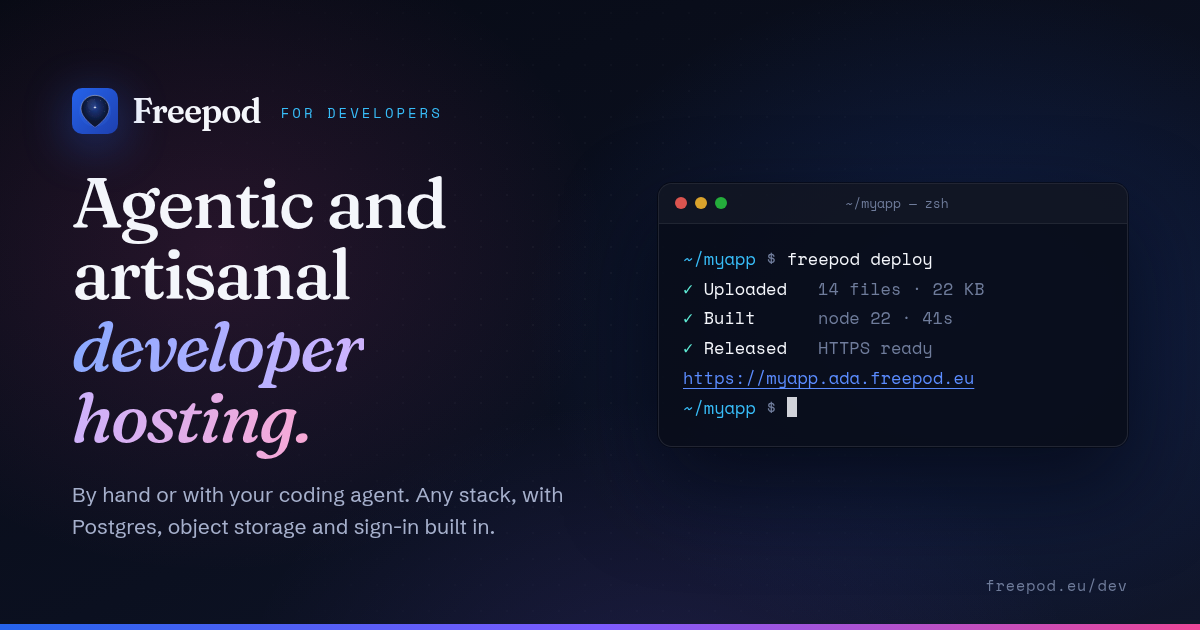
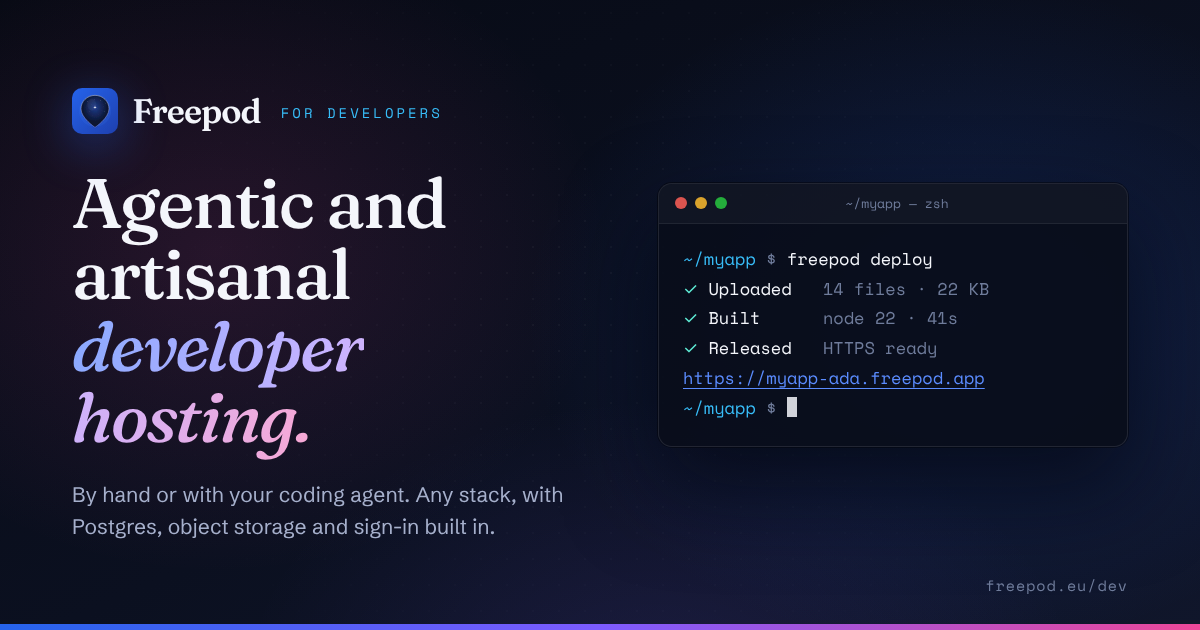
Show freepod.app addresses in the dev OG card and CLI docs
The developer social preview card and the CLI development guide still
showed app addresses under freepod.eu. Use the flat freepod.app form and
re-render the card.

diff --git a/ui/og/og-image-dev-v2.html b/ui/og/og-image-dev-v2.html
@@ -249,7 +249,7 @@
 <span class="ok">✓</span> Uploaded   <span class="dim">14 files · 22 KB</span>
 <span class="ok">✓</span> Built      <span class="dim">node 22 · 41s</span>
 <span class="ok">✓</span> Released   <span class="dim">HTTPS ready</span>
-<span class="link">https://myapp.ada.freepod.eu</span>
+<span class="link">https://myapp-ada.freepod.app</span>
 <span class="path">~/myapp</span><span class="dim"> $ </span><span class="cursor"></span></pre>
         </div>
       </div>

diff --git a/cli/DEVELOPMENT.md b/cli/DEVELOPMENT.md
@@ -176,7 +176,7 @@ Results go to **stdout**, everything else to **stderr**, so a piped stdout
 carries only the result:
 
 ```bash
-URL=$(freepod deploy)      # https://myapp.freepod.eu
+URL=$(freepod deploy)      # https://myapp-ada.freepod.app
 ```
 
 `--quiet` silences the diagnostics and leaves the result and any error; a quiet
@@ -555,7 +555,7 @@ that has never run.
 {
   "version": 1,
   "deployment": {"id": "40bd8dea-…", "name": "custom-app-d8dtx4"},
-  "user_values": {"hostname": "myapp.freepod.eu"}
+  "user_values": {"hostname": "myapp-ada.freepod.app"}
 }
 ```
 
